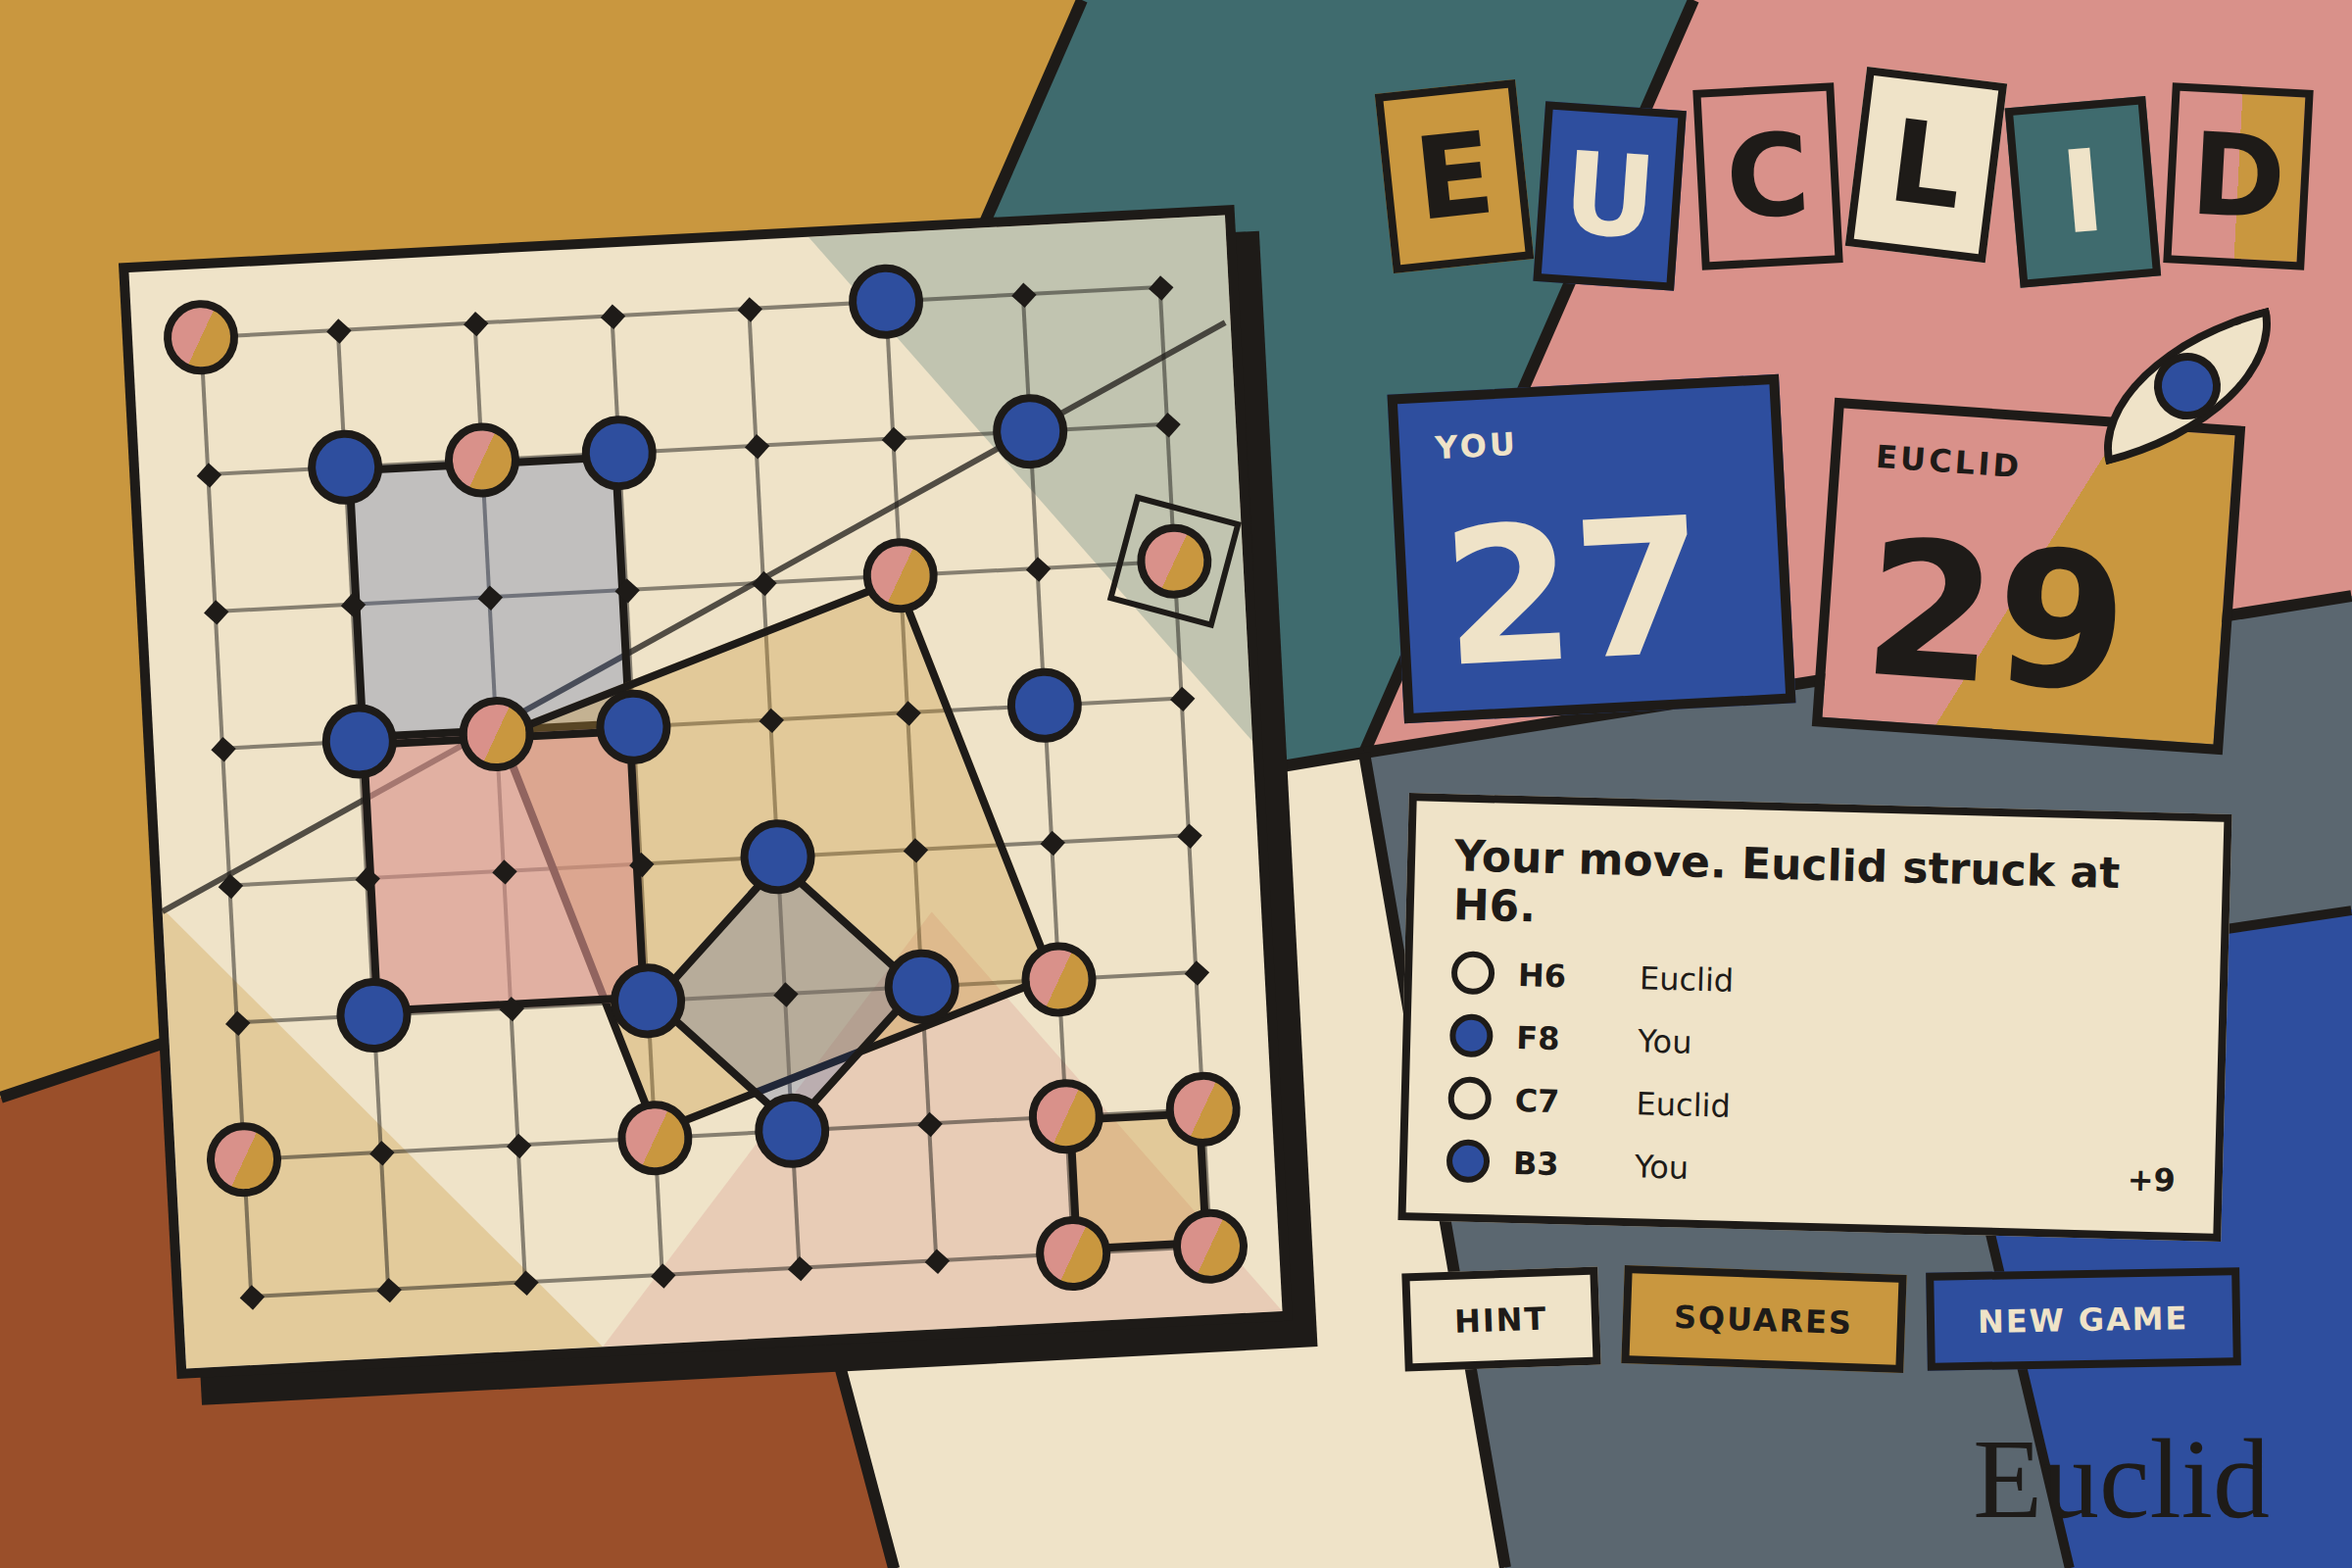
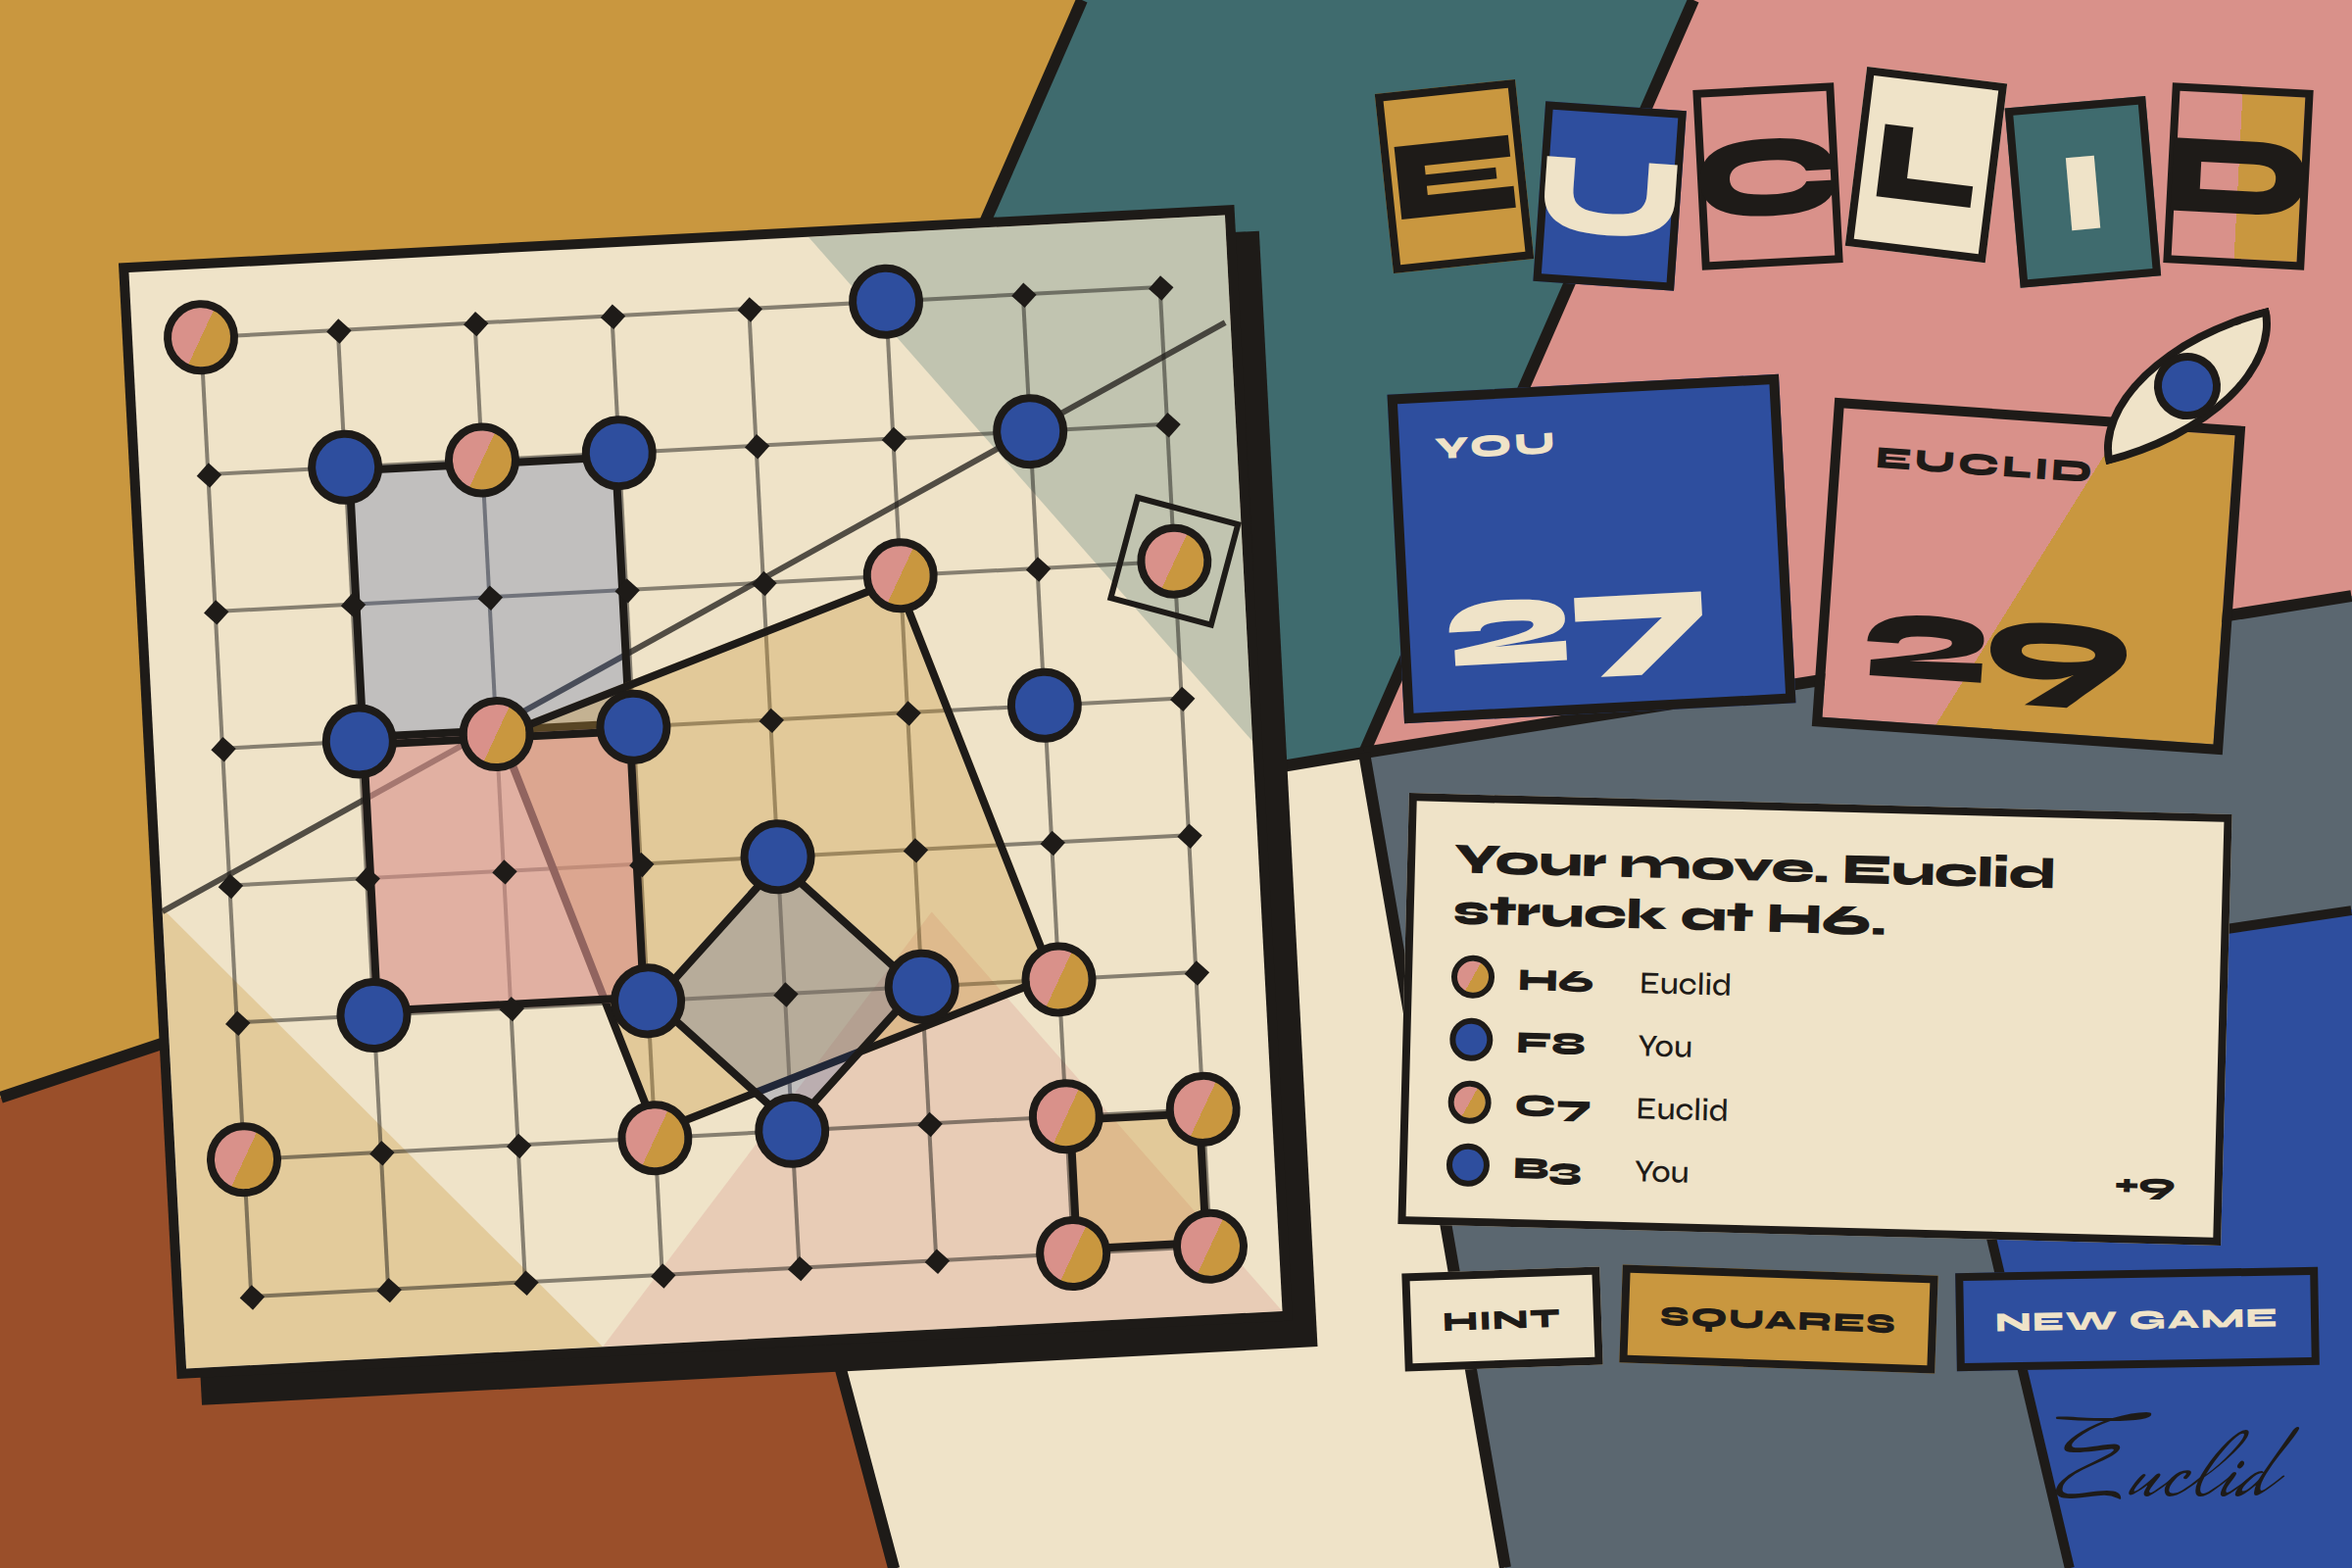
Fit the Cubist numerals and buttons to the wide display face
Euclid's history markers now show the split two-tone piece.

diff --git a/designs/source/12-cubist.dc.html b/designs/source/12-cubist.dc.html
@@ -13,7 +13,7 @@
 <style>
 body{margin:0;background:#EFE3C8;font-family:"Syne",system-ui,sans-serif;color:#1E1B18}
 a{color:#2E4E9E}a:hover{color:#1E1B18}
-.cb{font-family:"Syne",system-ui,sans-serif;font-size:16px;font-weight:800;text-transform:uppercase;letter-spacing:.06em;min-height:50px;padding:0 22px;border:4px solid #1E1B18;background:#EFE3C8;color:#1E1B18;cursor:pointer}
+.cb{white-space:nowrap;font-family:"Syne",system-ui,sans-serif;font-size:14px;font-weight:800;text-transform:uppercase;letter-spacing:.06em;min-height:50px;padding:0 16px;border:4px solid #1E1B18;background:#EFE3C8;color:#1E1B18;cursor:pointer}
 .split{background:linear-gradient(90deg,#D9918A 0 50%,#C9973F 50% 100%)}
 .split-d{background:linear-gradient(118deg,#D9918A 0 50%,#C9973F 50% 100%)}
 </style>
@@ -71,11 +71,11 @@ a{color:#2E4E9E}a:hover{color:#1E1B18}
   <!-- scores -->
   <div style="position: absolute; left: 712px; top: 196px; width: 200px; height: 168px; box-sizing: border-box; padding: 14px 18px; background: #2E4E9E; color: #EFE3C8; border: 5px solid #1E1B18; transform: rotate(-3deg); display: flex; flex-direction: column; justify-content: space-between">
     <div style="font-size: 16px; font-weight: 800; letter-spacing: .1em">YOU</div>
-    <div style="font-size: 96px; font-weight: 800; line-height: .9">27</div>
+    <div style="font-size: 64px; font-weight: 800; line-height: .9; letter-spacing: -.02em">27</div>
   </div>
   <div class="split-d" style="position: absolute; left: 930px; top: 210px; width: 210px; height: 168px; box-sizing: border-box; padding: 14px 18px; border: 5px solid #1E1B18; transform: rotate(4deg); display: flex; flex-direction: column; justify-content: space-between">
     <div style="font-size: 16px; font-weight: 800; letter-spacing: .1em">EUCLID</div>
-    <div style="font-size: 96px; font-weight: 800; line-height: .9">29</div>
+    <div style="font-size: 64px; font-weight: 800; line-height: .9; letter-spacing: -.02em">29</div>
   </div>
   <!-- the watching eye -->
   <div style="position: absolute; left: 1066px; top: 168px; width: 92px; height: 50px; background: #EFE3C8; border: 4px solid #1E1B18; border-radius: 100% 0; transform: rotate(-14deg); display: flex; align-items: center; justify-content: center">
@@ -95,7 +95,7 @@ a{color:#2E4E9E}a:hover{color:#1E1B18}
     </sc-for>
   </div>
 
-  <div style="position: absolute; left: 716px; top: 648px; display: flex; gap: 12px">
+  <div style="position: absolute; left: 716px; top: 648px; display: flex; gap: 10px">
     <button class="cb" style="transform: rotate(-2deg)">Hint</button>
     <button class="cb" style="transform: rotate(2deg); background: #C9973F">Squares</button>
     <button class="cb" style="transform: rotate(-1deg); background: #2E4E9E; color: #EFE3C8">New game</button>
@@ -146,7 +146,7 @@ class Component extends DCLogic {
       seg(696, 384, 360, 440, 6), seg(696, 384, 1200, 304, 6), seg(360, 440, 456, 800, 6),
       seg(696, 384, 768, 800, 6), seg(984, 496, 1200, 464, 5), seg(984, 496, 1056, 800, 5)
     ];
-    var recent = L.log.slice(0, 4).map(function (r) { return { cell: r.cell, who: r.a ? 'You' : 'Euclid', bg: r.a ? '#2E4E9E' : 'transparent', cls: r.a ? '' : 'split-d', plus: r.plus }; });
+    var recent = L.log.slice(0, 4).map(function (r) { return { cell: r.cell, who: r.a ? 'You' : 'Euclid', bg: r.a ? '#2E4E9E' : 'linear-gradient(118deg,#D9918A 0 50%,#C9973F 50% 100%)', cls: '', plus: r.plus }; });
     return { cells: L.cells, lines: L.lines, squares: L.squares, fractures: fractures, recent: recent };
   }
 }
